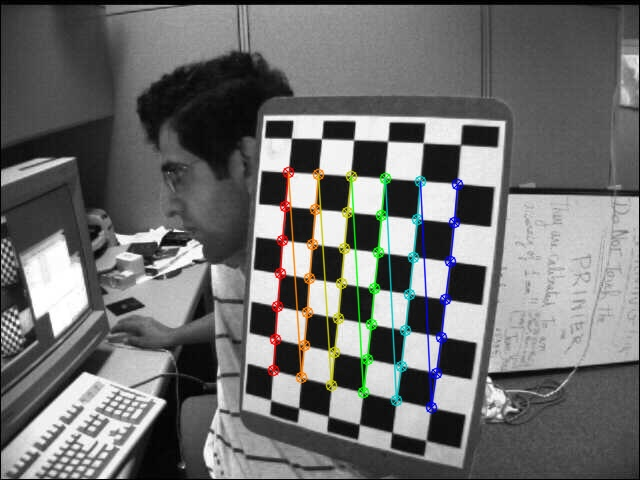
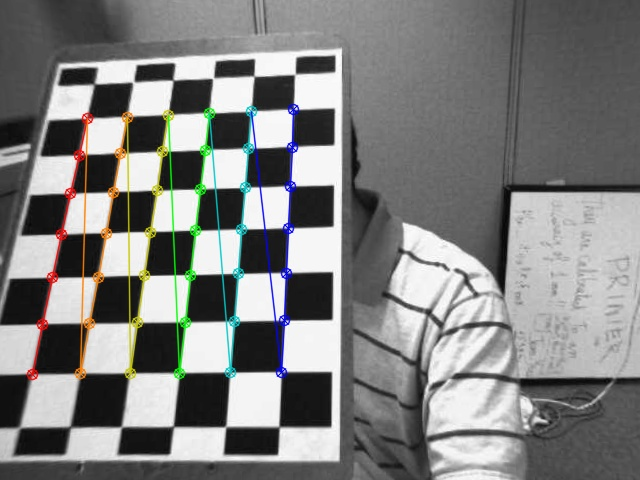
add epipolar line plot code, fix the unaligned problem

diff --git a/scripts/rectification.py b/scripts/rectification.py
@@ -30,12 +30,17 @@ objp[:,:2] = np.mgrid[0:7,0:6].T.reshape(-1,2)
 objpoints = [] # 存储棋盘点的3D世界坐标,为棋盘点坐标
 left_imgpoints = [] # 2D图像坐标,利用cv2的API求得
 right_imgpoints = [] # 2D图像坐标,利用cv2的API求得
+left_valid_gray = []
+right_valid_gray = []
 
 left_img_gray_cache = None
 right_img_gray_cache = None
-cached_index = 2
+cached_index = 1
 
 os.system('rm -rf ../imgs/rectified/*')
+os.mkdir('../imgs/rectified/right')
+os.mkdir('../imgs/rectified/left')
+
 left_imgs = glob.glob('../imgs/left/*.jpg')
 right_imgs = glob.glob('../imgs/right/*.jpg')
 
@@ -66,14 +71,14 @@ for i,(left,right) in enumerate(zip(left_imgs,right_imgs)):
     # 如果找到了棋盘点,将该场景下的3D和2D坐标加入到存储中
     # print(l_ret,r_ret)
     if l_ret and r_ret:
-        if len(valid_idx)==cached_index:
-            left_img_gray_cache = l_img
-            right_img_gray_cache = r_img
-
+        left_valid_gray.append(l_gray)
+        right_valid_gray.append(r_gray)
         valid_idx.append(i)
         objpoints.append(objp)
 
-        #--------------------------------------------------------------------------#
+        #-------------------------------------opencv进行双目摄像机的标定。先利用
+# calibrateCamera逐个标定单目摄像机获得相机矩阵，然后利用两个摄像
+# 机的相机矩阵计算两个相机坐标系的转换，利用APi:stereoCalibrate-------------------------------------#
         # 左摄像机，寻找棋盘点的亚像素位置
         l_corners2 = cv2.cornerSubPix(l_gray, l_corners, (11, 11), (-1, -1), criteria)
 
@@ -90,8 +95,6 @@ for i,(left,right) in enumerate(zip(left_imgs,right_imgs)):
         else:
             right_imgpoints.append(r_corners)
         # --------------------------------------------------------------------------#
-
-        #
         # l_img = cv2.drawChessboardCorners(l_img, (7,6), l_corners2, l_ret)
         # r_img = cv2.drawChessboardCorners(r_img, (7,6), r_corners2, r_ret)
         # # cv2.imshow('img_left',l_img)
@@ -99,8 +102,8 @@ for i,(left,right) in enumerate(zip(left_imgs,right_imgs)):
         # cv2.waitKey(1000)
 
 print('逐个标定单目摄像机...')
-ret, l_mtx, l_dist, l_rvecs, l_tvecs = cv2.calibrateCamera(objpoints, left_imgpoints, l_img_size, None, None, criteria=criteria)
-ret, r_mtx, r_dist, r_rvecs, r_tvecs = cv2.calibrateCamera(objpoints, right_imgpoints, r_img_size, None, None, criteria=criteria)
+ret, l_mtx, l_dist, l_rvecs, l_tvecs = cv2.calibrateCamera(objpoints, left_imgpoints, l_img_size, None, None)
+ret, r_mtx, r_dist, r_rvecs, r_tvecs = cv2.calibrateCamera(objpoints, right_imgpoints, r_img_size, None, None)
 
 print('标定双目摄像机...')
 retval, cameraMatrix1, distCoeffs1, cameraMatrix2, distCoeffs2, R, T, E, F = \
@@ -117,44 +120,40 @@ print('校正双目摄像机...')
 R1, R2, P1, P2, Q, roi1, roi2 = cv2.stereoRectify(l_mtx, l_dist,
                                                   r_mtx, r_dist,
                                                   l_img_size,
-                                                  R, T,
-                                                  alpha=-1)
+                                                  R, T)
 
 print('初始化整形映射...')
 mapx1, mapy1 = cv2.initUndistortRectifyMap(l_mtx, l_dist, R1, P1, l_img_size, cv2.CV_16SC2)
 mapx2, mapy2 = cv2.initUndistortRectifyMap(r_mtx, r_dist, R2, P2, r_img_size, cv2.CV_16SC2)
 
 # 选择一组cache的图像pair展现rectification以后的效果
-left_img, right_img = left_img_gray_cache, right_img_gray_cache
+for i,(l_gray,r_gray) in enumerate(zip(left_valid_gray, right_valid_gray)):
 
-l_rectified = cv2.remap(left_img, mapx1, mapy1, cv2.INTER_LINEAR)
-r_rectified = cv2.remap(right_img, mapx2, mapy2, cv2.INTER_LINEAR)
+    l_rectified = cv2.remap(l_gray, mapx1, mapy1, cv2.INTER_LINEAR)
+    r_rectified = cv2.remap(r_gray, mapx2, mapy2, cv2.INTER_LINEAR)
 
-cv2.imwrite('../imgs/rectified/before_left.jpg', left_img)
-cv2.imwrite('../imgs/rectified/before_right.jpg', right_img)
-cv2.imwrite('../imgs/rectified/after_left.jpg', l_rectified)
-cv2.imwrite('../imgs/rectified/after_right.jpg', r_rectified)
+    cv2.imwrite(f'../imgs/rectified/left/{i}.jpg', l_rectified)
+    cv2.imwrite(f'../imgs/rectified/right/{i}.jpg', r_rectified)
 
-# l_epi_img = l_rectified[:,:,0]
-# r_epi_img = r_rectified[:,:,0]
+print('双目摄像机标定RMS:', retval)
+
+# -------------------------------------------------------------------------------
+# l_epi_img = cv2.imread(f'../imgs/rectified/left/{cached_index}.jpg')
+# r_epi_img = cv2.imread(f'../imgs/rectified/right/{cached_index}.jpg')
 #
-# l_ret, l_corners = cv2.findChessboardCorners(l_epi_img, (7, 6), None)
-# r_ret, r_corners = cv2.findChessboardCorners(r_epi_img, (7, 6), None)
+# l_epi_gray = cv2.cvtColor(l_epi_img,cv2.COLOR_BGR2GRAY)
+# r_epi_gray = cv2.cvtColor(r_epi_img,cv2.COLOR_BGR2GRAY)
 #
-# l_corners2 = cv2.cornerSubPix(l_epi_img, l_corners, (11, 11), (-1, -1), criteria)
-# r_corners2 = cv2.cornerSubPix(r_epi_img, r_corners, (11, 11), (-1, -1), criteria)
+# l_ret, l_corners = cv2.findChessboardCorners(l_epi_gray, (7, 6), None)  # True, left_imgpoints[valid_idx[cached_index]]#
+# r_ret, r_corners = cv2.findChessboardCorners(r_epi_gray, (7, 6), None)  # True, right_imgpoints[valid_idx[cached_index]]#
 #
-# if l_corners2 is not None and r_corners2 is not None:
-#     l_corners = l_corners2
-#     r_corners = r_corners2
-#
-# l_img = cv2.imread('../imgs/rectified/after_left.jpg')
-# r_img = cv2.imread('../imgs/rectified/after_right.jpg')
-# l_img = cv2.drawChessboardCorners(l_img, (7,6), l_corners, l_ret)
-# r_img = cv2.drawChessboardCorners(r_img, (7,6), r_corners, r_ret)
-#
-# cv2.imwrite('../imgs/rectified/line_chessboard_left.jpg',l_img)
-# cv2.imwrite('../imgs/rectified/line_chessboard_right.jpg',r_img)
+# # l_img = cv2.imread('../imgs/rectified/before_left.jpg')
+# # r_img = cv2.imread('../imgs/rectified/before_right.jpg')
+# # l_img = cv2.drawChessboardCorners(l_img, (7,6), l_corners, l_ret)
+# # r_img = cv2.drawChessboardCorners(r_img, (7,6), r_corners, r_ret)
+# #
+# # cv2.imwrite('../imgs/rectified/line_chessboard_left.jpg',l_img)
+# # cv2.imwrite('../imgs/rectified/line_chessboard_right.jpg',r_img)
 #
 # l_epiline = cv2.computeCorrespondEpilines(l_corners[::7],1,F)
 # r_epiline = cv2.computeCorrespondEpilines(r_corners[::7],2,F)
@@ -162,16 +161,16 @@ cv2.imwrite('../imgs/rectified/after_right.jpg', r_rectified)
 # width = l_rectified.shape[1]
 # for l_line,r_line in zip(l_epiline,r_epiline):
 #     l_line, r_line = l_line[0], r_line[0]
-#     cv2.line(r_rectified,(0,int(-l_line[2]/l_line[1])),(width,int(-(l_line[2]+l_line[0]*width)/l_line[1])), color=(0,0,255))
-#     cv2.line(l_rectified,(0,int(-r_line[2]/r_line[1])),(width,int(-(r_line[2]+r_line[0]*width)/r_line[1])), color=(0,0,255))
+#     cv2.line(r_epi_img,(0,-l_line[2]/l_line[1]),(width,int(-(l_line[2]+l_line[0]*width)/l_line[1])), color=(0,0,255))
+#     cv2.line(l_epi_img,(0,-r_line[2]/r_line[1]),(width,int(-(r_line[2]+r_line[0]*width)/r_line[1])), color=(0,0,255))
+#
+# cv2.imwrite('../imgs/rectified/line_left.jpg', l_epi_img)
+# cv2.imwrite('../imgs/rectified/line_right.jpg', r_epi_img)
+# -------------------------------------------------------------------------------
 
-# cv2.imwrite('../imgs/rectified/line_left.jpg', l_rectified)
-# cv2.imwrite('../imgs/rectified/line_right.jpg', r_rectified)
-
-print('双目摄像机标定RMS:', retval)
-np.save('../data/left_camera_mtx.npy', l_mtx)
-np.save('../data/right_camera_mtx.npy', r_mtx)
-np.save('../data/left_camera_proj_mtx.npy', P1)
-np.save('../data/right_camera_proj_mtx.npy', P2)
+# np.save('../data/left_camera_mtx.npy', l_mtx)
+# np.save('../data/right_camera_mtx.npy', r_mtx)
+# np.save('../data/left_camera_proj_mtx.npy', P1)
+# np.save('../data/right_camera_proj_mtx.npy', P2)
 
 

diff --git a/scripts/draw_epipolar_line.py b/scripts/draw_epipolar_line.py
@@ -5,9 +5,10 @@
 # 导师: 蔡登
 # --------------------
 #
-# 本文件中主要使用opencv进行双目摄像机的标定。先利用
-# calibrateCamera逐个标定单目摄像机获得相机矩阵，然后利用两个摄像
-# 机的相机矩阵计算两个相机坐标系的转换，利用APi:stereoCalibrate
+# 本文件中主要使用在rectification.py中整形过后的图片，画出其
+# 极线，证明双目照相机已经成功rectified。主要使用了opencv的
+#　computeCorrespondEpilines，根据基础矩阵计算两台摄像机
+# 图像之间的对应关系
 ######################################################
 
 import numpy as np
@@ -39,6 +40,7 @@ os.system('rm -rf ../imgs/check/*')
 
 # 某些pair会导致过大的RMS，将这些pair去除
 excluded_idx = [12]
+used_idx = 1
 
 print('收集图像点坐标...')
 for i,(left,right) in enumerate(zip(left_imgs,right_imgs)):
@@ -112,8 +114,23 @@ retval, cameraMatrix1, distCoeffs1, cameraMatrix2, distCoeffs2, R, T, E, F = \
                         criteria=criteria)
 
 print('*'*50)
-print('左摄像机到右摄像机坐标系的旋转矩阵:','\n',R)
-print('左摄像机到右摄像机坐标系的位移矩阵:','\n',T)
-print('左摄像机到右摄像机坐标系的本征矩阵:','\n',E)
-print('左摄像机到右摄像机坐标系的基础矩阵:','\n',F)
 print('重建损失:', retval)
+
+# 只选择指定下标的图像用于demo
+l_rectified = left_cached_imgs[used_idx]
+r_rectified = right_cached_imgs[used_idx]
+
+# 获取极线方程
+l_epiline = cv2.computeCorrespondEpilines(left_imgpoints[used_idx][::7],1,F)
+r_epiline = cv2.computeCorrespondEpilines(right_imgpoints[used_idx][::7],2,F)
+
+width = l_rectified.shape[1]
+for l_line,r_line in zip(l_epiline,r_epiline):
+    l_line, r_line = l_line[0], r_line[0]
+
+    # 注意：左摄像机图中点的极线应该画在右图中，右图极线画在左图中
+    cv2.line(r_rectified,(0,-l_line[2]/l_line[1]),(width,int(-(l_line[2]+l_line[0]*width)/l_line[1])), color=(0,0,255))
+    cv2.line(l_rectified,(0,-r_line[2]/r_line[1]),(width,int(-(r_line[2]+r_line[0]*width)/r_line[1])), color=(0,0,255))
+
+cv2.imwrite('../imgs/rectified/line_left.jpg', l_rectified)
+cv2.imwrite('../imgs/rectified/line_right.jpg', r_rectified)

diff --git a/scripts/cal_baseline.py b/scripts/cal_baseline.py
@@ -23,10 +23,12 @@ P2 = np.load('../data/right_camera_proj_mtx.npy')
 T1 = np.matmul(np.linalg.inv(lmtx),P1)
 T2 = np.matmul(np.linalg.inv(rmtx),P2)
 
+# 计算3D世界坐标系中任意一点在两个摄像机坐标系内的点坐标
 x1 = np.matmul(T1, x)
 x2 = np.matmul(T2, x)
 
 baseline = x1[0]-x2[0]
+
 print('x1',x1[0])
 print('x2',x2[0])
 print('b:',baseline)
